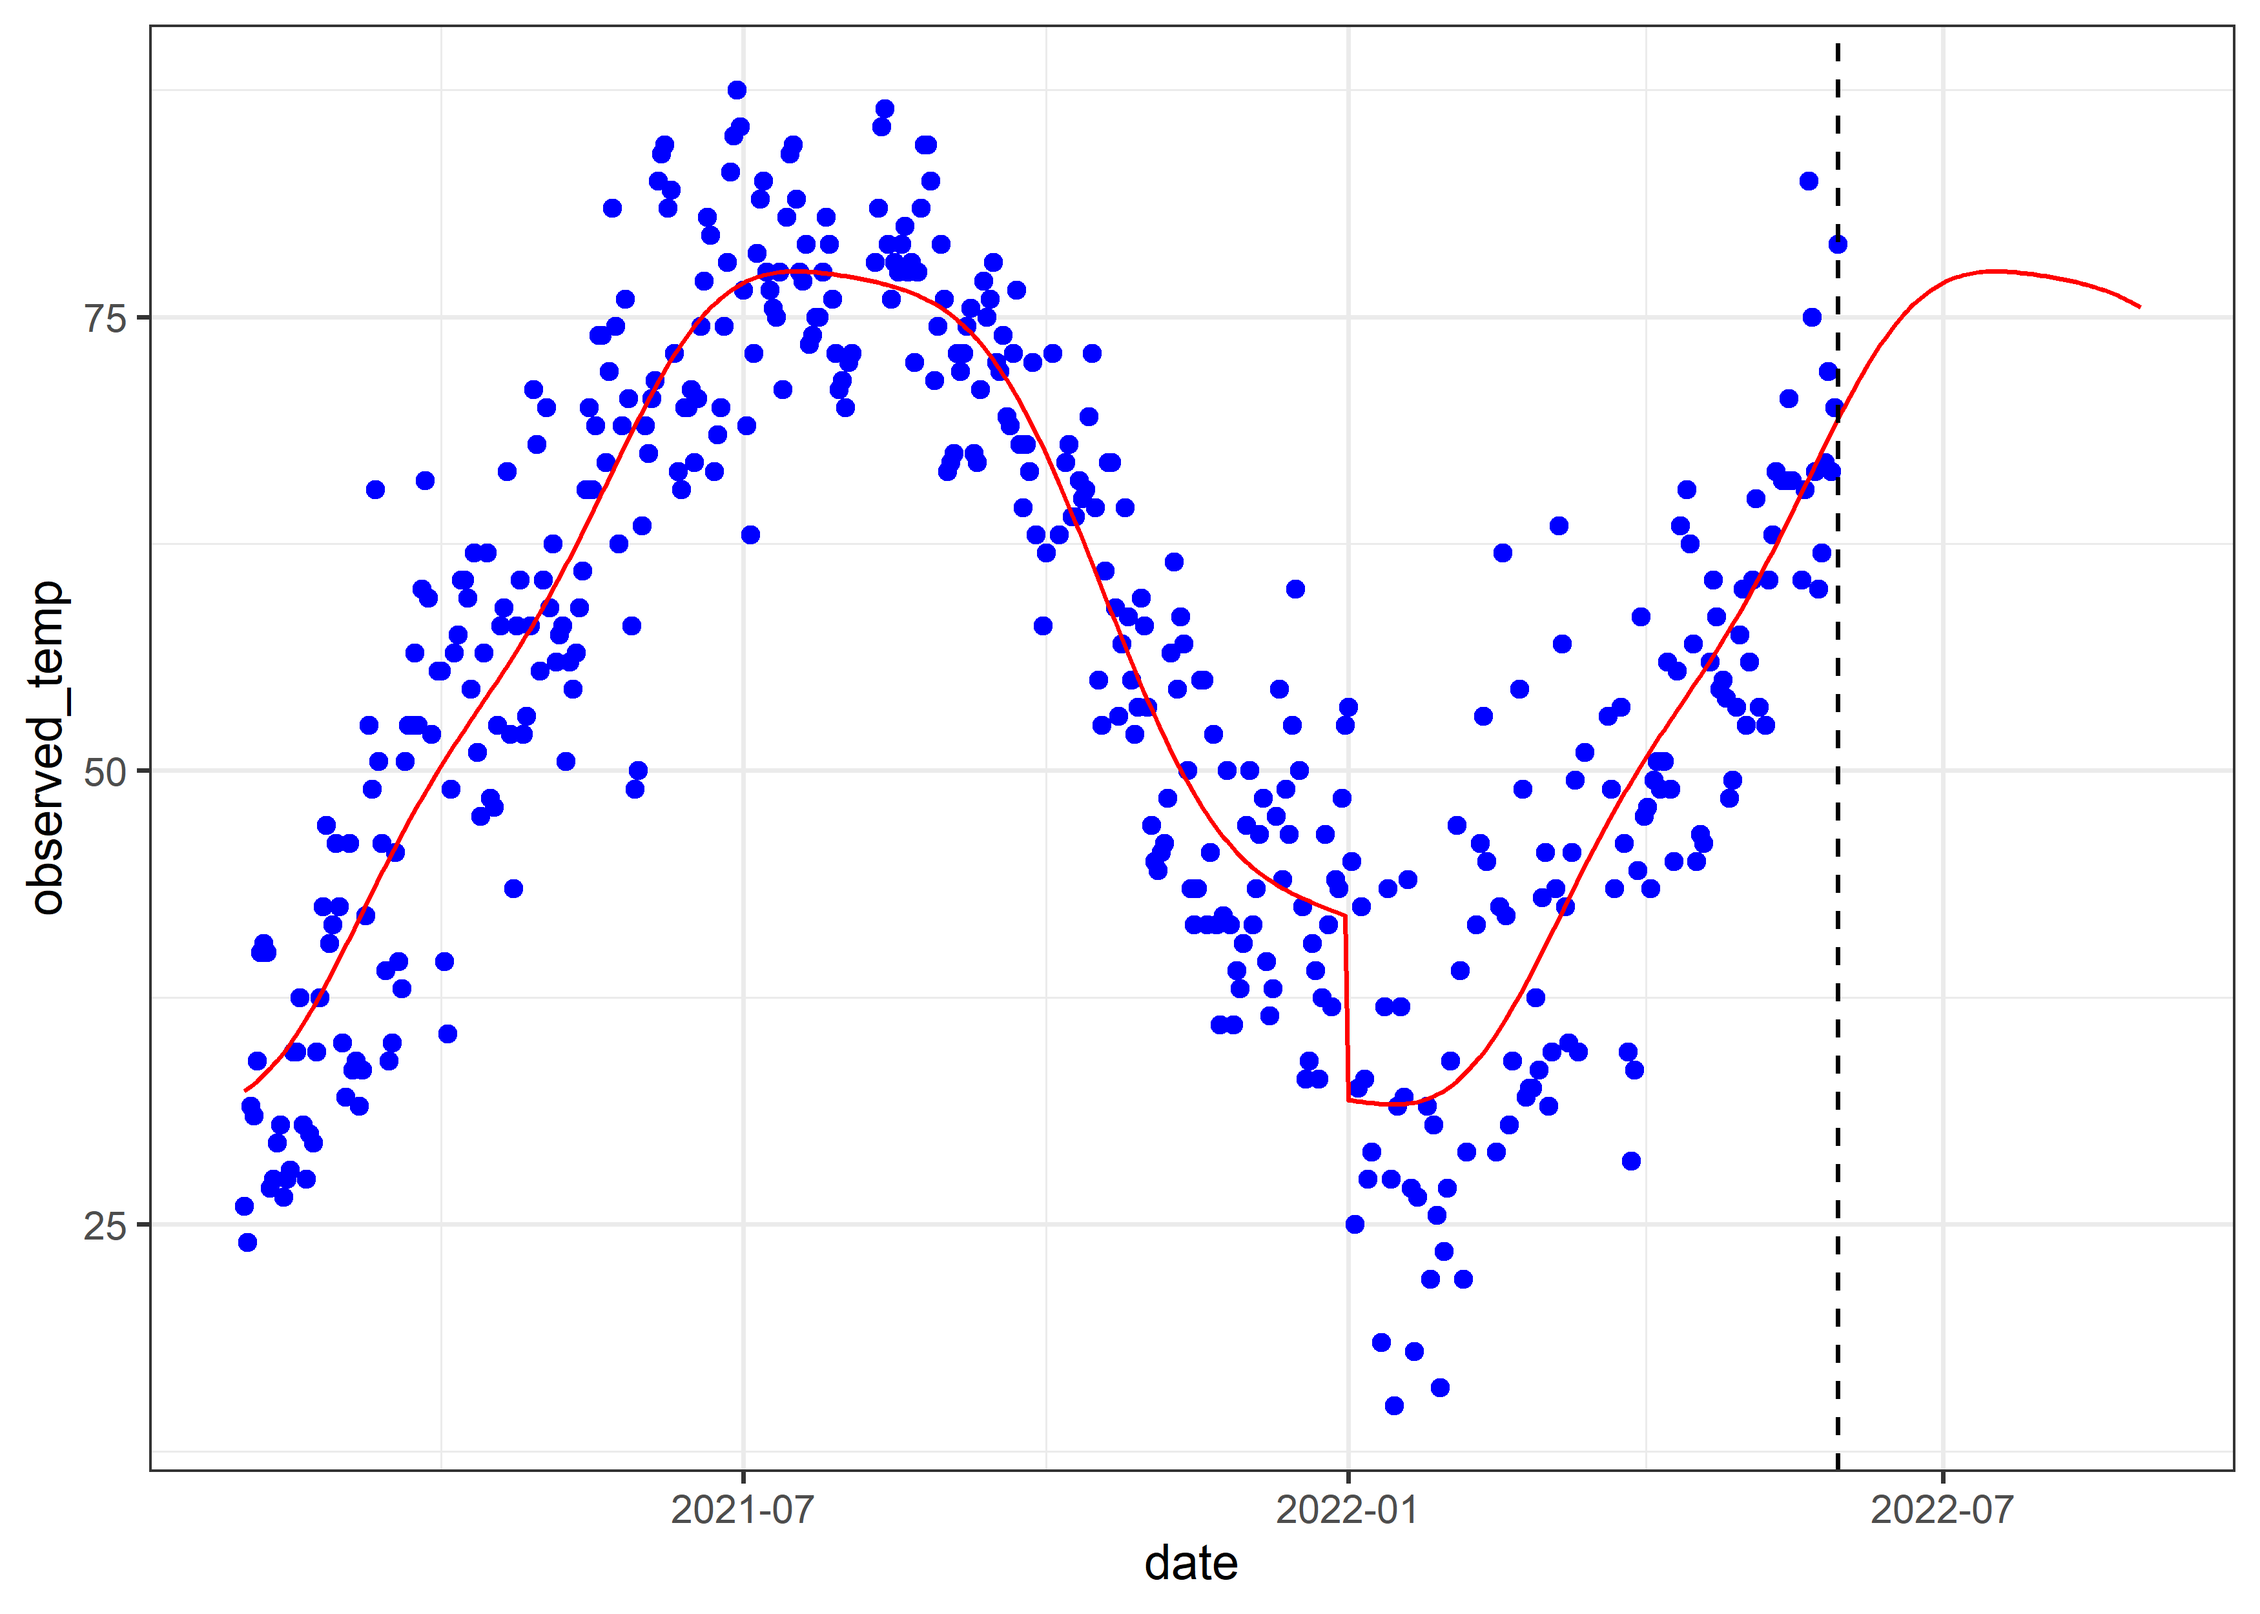
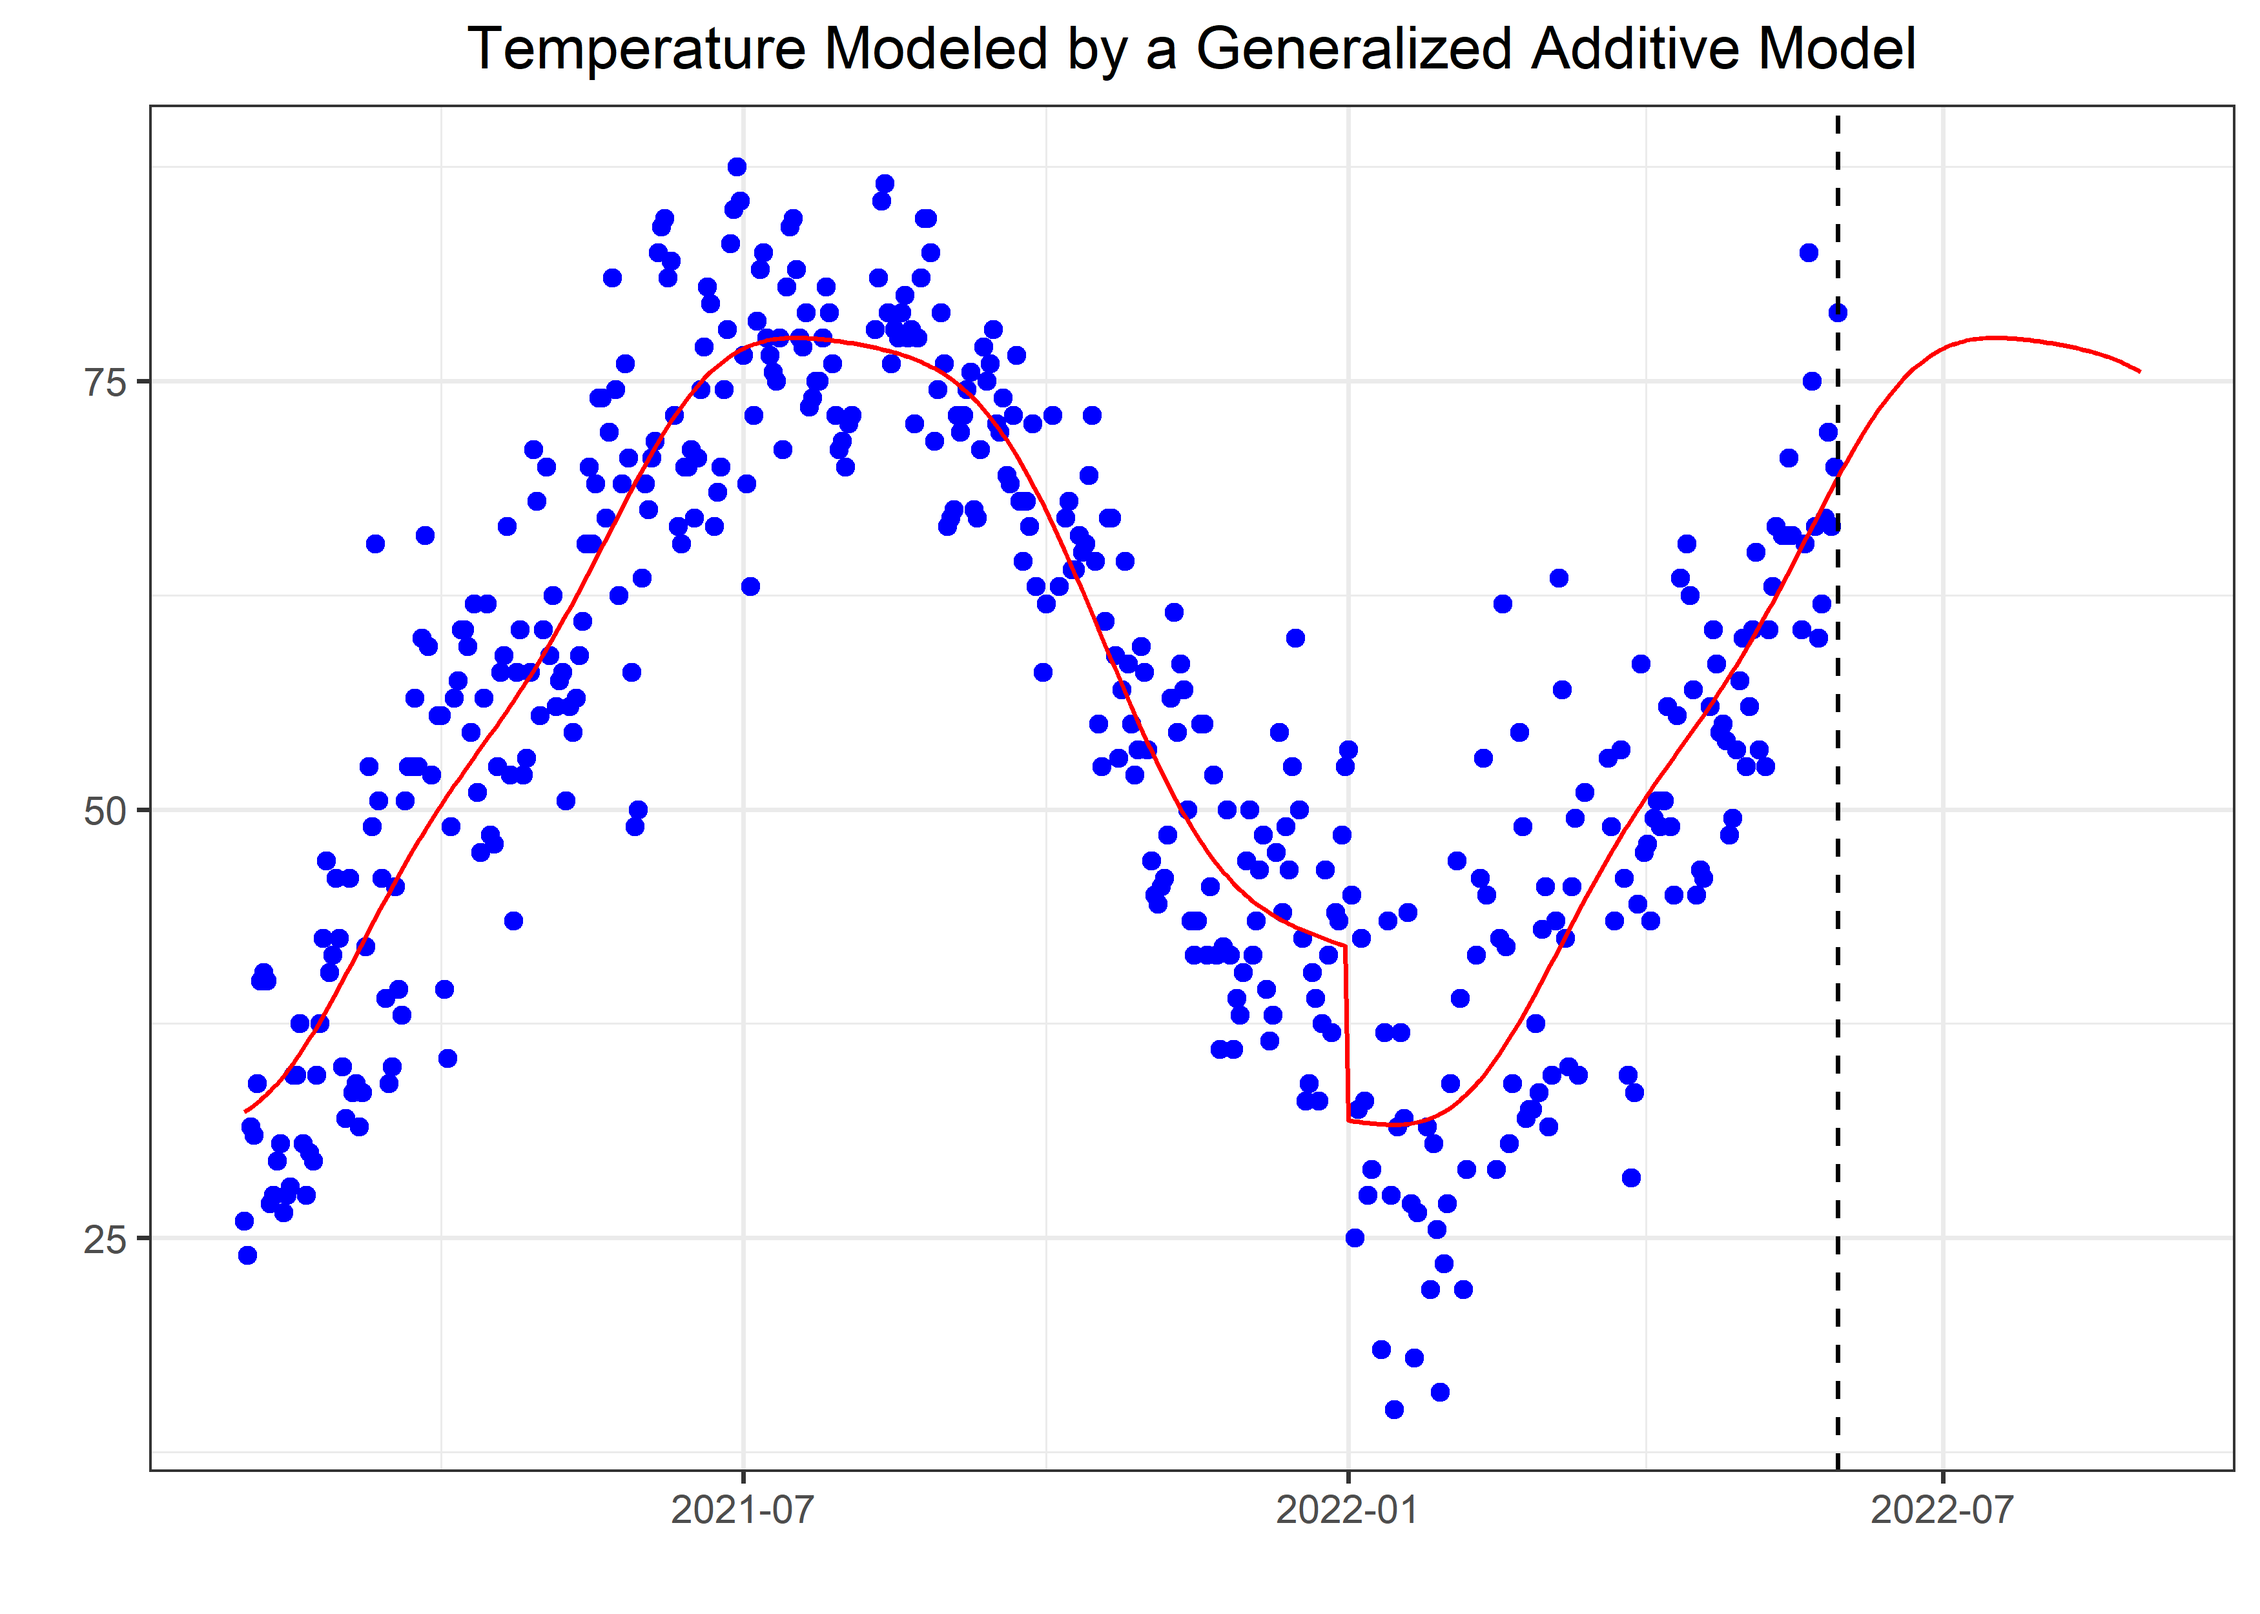
added titles

diff --git a/12-20-22/Weather-Forecasts.md b/12-20-22/Weather-Forecasts.md
@@ -524,7 +524,9 @@ nycseries %>%
   ggplot(aes(date)) +
   geom_point(aes(y = observed_temp), color = "blue") +
   geom_line(aes(y = pred), color = "red") +
-  geom_vline(xintercept = as.Date("2022-05-30"), linetype = "dashed")
+  geom_vline(xintercept = as.Date("2022-05-30"), linetype = "dashed") +
+  labs(y = "", x = "", 
+       title = "Temperature Modeled by a Generalized Additive Model")
 ```
 
 ![](Weather-Forecasts_files/figure-gfm/unnamed-chunk-24-1.png)<!-- -->
@@ -532,7 +534,8 @@ nycseries %>%
 ### Polynomial Model
 
 ``` r
-lm_mod <- lm(observed_temp ~ I(day^4) + I(day^3) + I(day^2) + day, data = nycseries)
+lm_mod <- lm(observed_temp ~ I(day^4) + I(day^3) + I(day^2) + day, 
+             data = nycseries)
 
 summary(lm_mod)
 ```
@@ -568,8 +571,9 @@ nycseries %>%
          pred = ifelse(is.na(pred), predict(lm_mod, cur_data()), pred)) %>% 
   ggplot(aes(date)) +
   geom_point(aes(y = observed_temp), color = "blue") +
-  geom_line(aes(y = pred), color = "red") +
-  geom_vline(xintercept = as.Date("2022-05-30"), linetype = "dashed")
+  geom_line(aes(y = pred), color = "red") + 
+  geom_vline(xintercept = as.Date("2022-05-30"), linetype = "dashed") +
+  labs(y = "", x = "", title = "Temperature Modeled by Linear Regression")
 ```
 
 ![](Weather-Forecasts_files/figure-gfm/unnamed-chunk-26-1.png)<!-- -->
